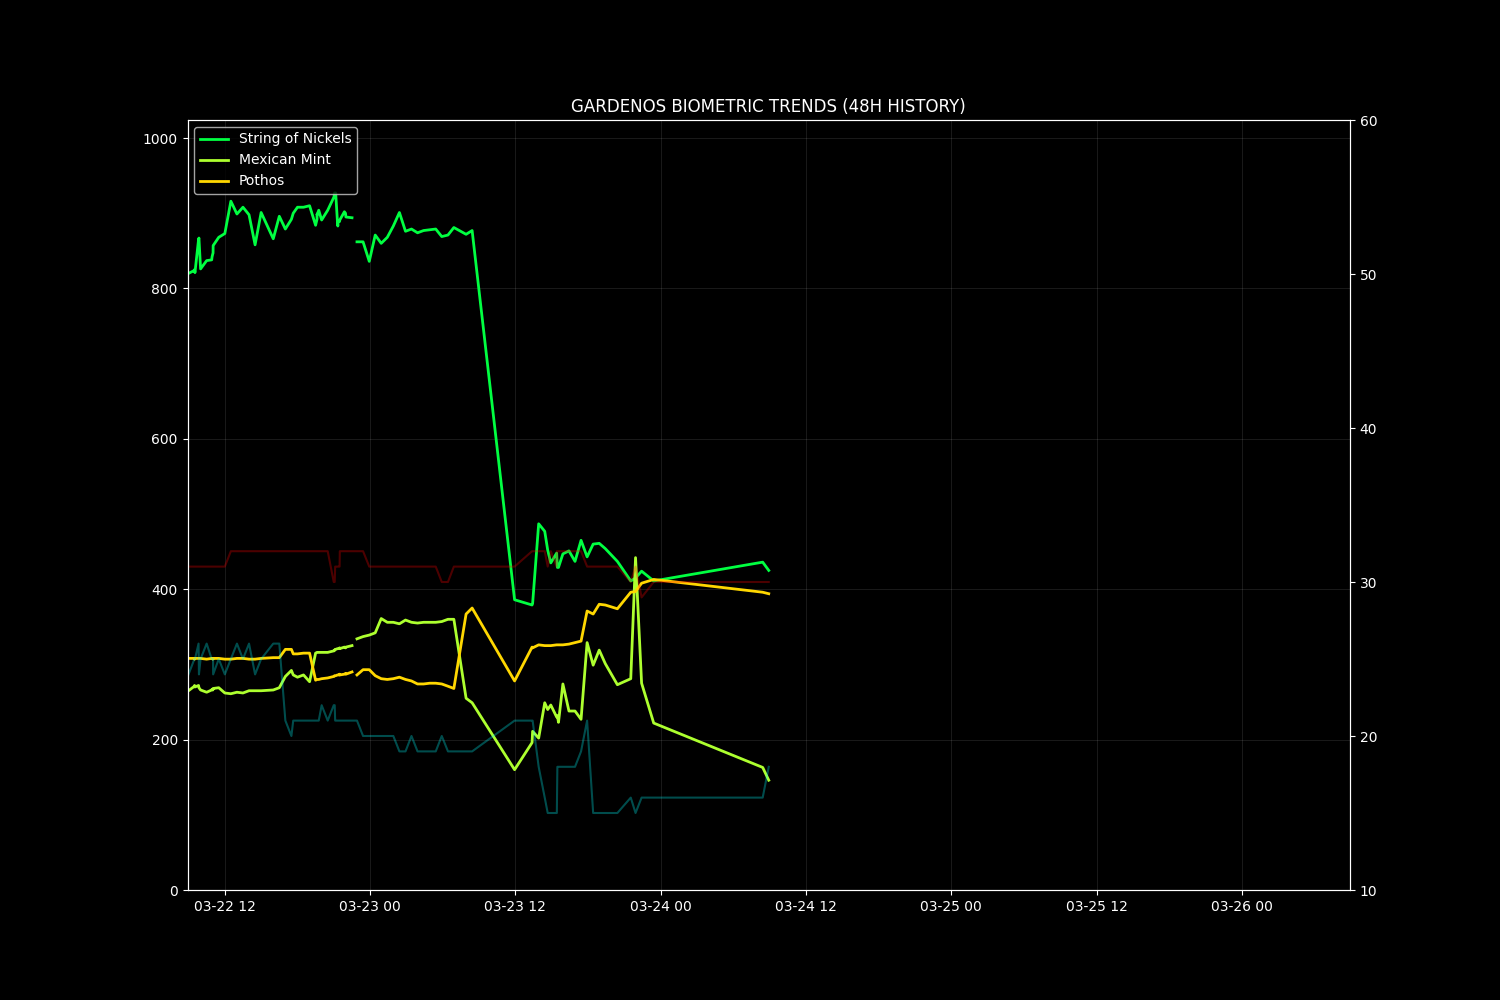
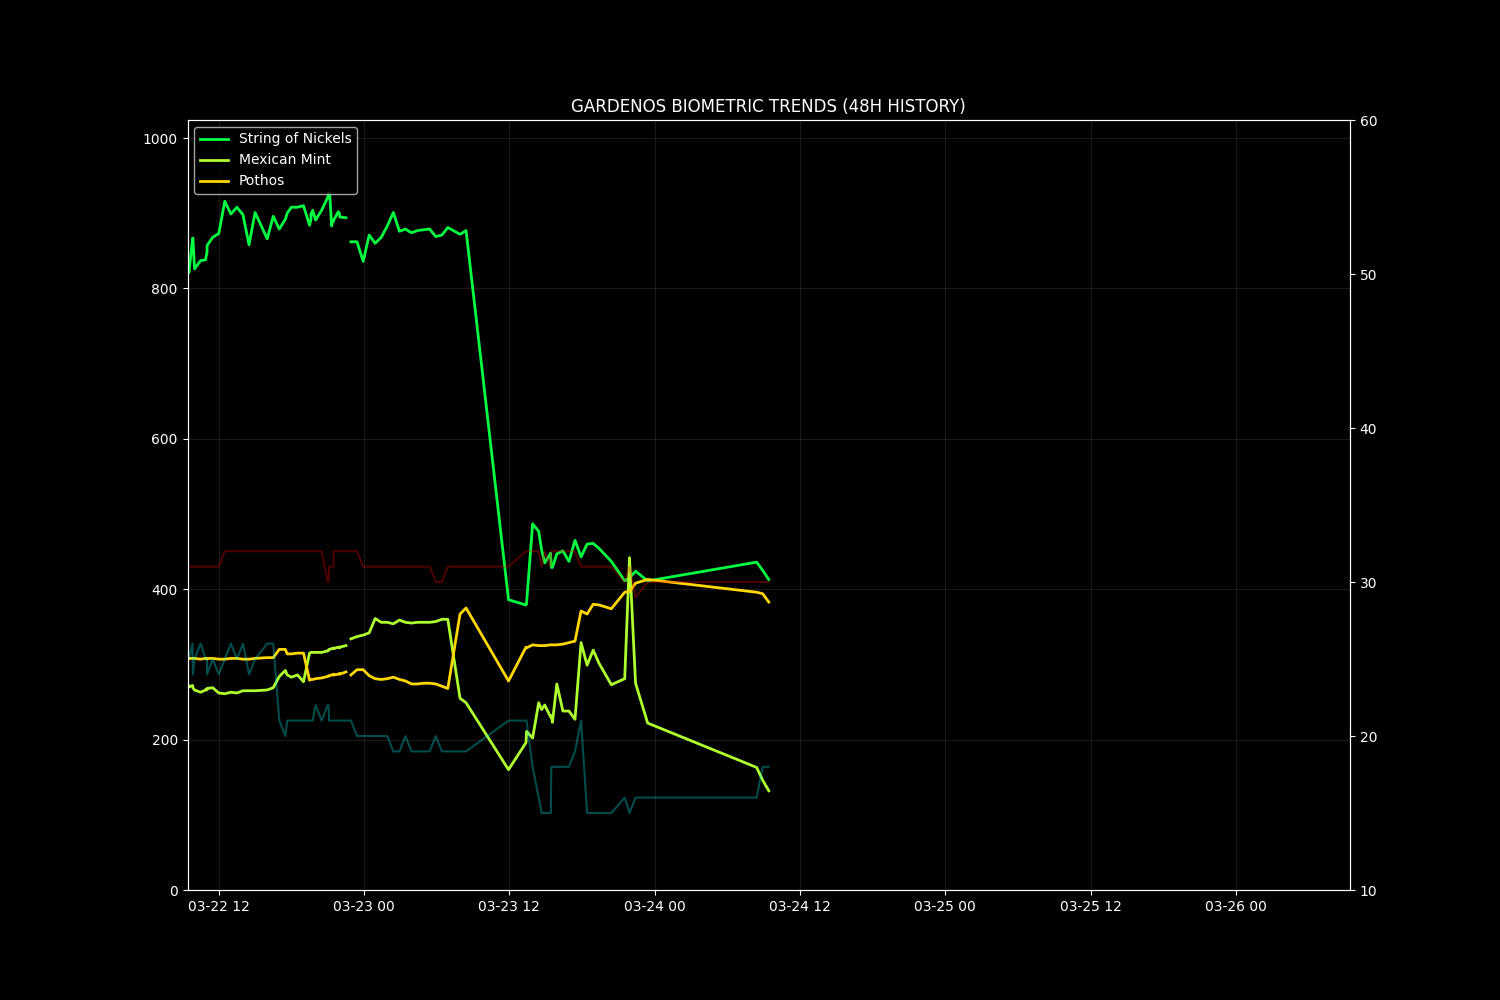
Warden Cycle: 2026-03-24 09:25:29

diff --git a/docs/data/observer_context.md b/docs/data/observer_context.md
@@ -1,12 +1,12 @@
 # 📝 Garden Observer Context
-**Generated:** 2026-03-24 07:58:01
+**Generated:** 2026-03-24 08:58:01
 
 ## 1. 🌡 Recent Telemetry (Last 12 Readings)
 ```csv
 timestamp,temp,hum,light,p1,p2,p3
-2026-03-23 21:55:28,31.0,15.0,840,415.0,442.0,397.0
-2026-03-23 22:25:28,29.0,16.0,845,424.0,275.0,408.0
 2026-03-23 23:25:29,30.0,16.0,829,411.0,222.0,413.0
+2026-03-24 08:25:28,30.0,16.0,514,436.0,163.0,396.0
+2026-03-24 08:55:28,30.0,18.0,704,425.0,146.0,394.0
 
 ```
 
@@ -14,8 +14,8 @@ timestamp,temp,hum,light,p1,p2,p3
 ```csv
 timestamp,vpd,p1_pct,p1_slope,p2_pct,p2_slope,p3_pct,p3_slope,p4_pct,p4_slope,p5_pct,p5_slope,p6_pct,p6_slope,p1_is_dry,p2_is_dry,p3_is_dry
 2026-03-23 23:25:29,3.564,96.9,,92.7,,74.4,,,,,,,,False,False,False
-2026-03-23 23:25:29,3.564,96.9,,92.7,,74.4,,,,,,,,False,False,False
-2026-03-23 23:25:29,3.564,96.9,,92.7,,74.4,,,,,,,,False,False,False
+2026-03-24 08:25:28,3.564,89.3,,100.0,,79.2,,,,,,,,False,False,False
+2026-03-24 08:55:28,3.479,92.6,,100.0,,79.8,,,,,,,,False,False,False
 
 ```
 
@@ -103,34 +103,6 @@ timestamp,vpd,p1_pct,p1_slope,p2_pct,p2_slope,p3_pct,p3_slope,p4_pct,p4_slope,p5
 ```
 
 ## 4. 📖 Previous Ledger Entries (Last 3)
-## 2026-03-23 16:25
-**Visual Assessment**: Based on latest.jpg analysis (visual data prioritized per protocol), all plants appear healthy and turgid. Despite slightly lower than ideal humidity, plants show no signs of stress. Environmental conditions show improvement with mist/fog reducing evaporative demand.
-
-**Plant-by-Plant Analysis (Visual Priority)**:
-- **p1 (String of Nickels)**: Leaves maintain plump, turgid appearance. No visible wrinkling or chlorosis. Visual health consistent with sensor readings showing improved moisture levels.
-- **p2 (Mexican Mint)**: Vigorous growth continues with dense, vibrant green foliage. Leaf pairs show normal expansion. No wilting or drooping observed.
-- **p3 (Pothos)**: Leaves exhibit strong phototropic orientation toward light source. Leaf size consistent with mature specimens (~30mm width). No spotting, yellowing, or wilting detected.
-- **p4 (Silver Guest Alpha)**: Foliage maintains characteristic 'sparkle density' with prominent silver patches. Compact growth habit persists with no signs of stress.
-
-**Telemetry Context (15:58:02)**:
-- p1: 85.9-91.4% (wet) - adequate moisture levels
-- p2/p4: 70.4-92.3% (wet) - ample moisture available  
-- p3: 99.1% (very wet) - excellent moisture levels
-- Environmental: 32.0°C, 18.0% humidity, 810-825 light - warm but improving conditions
-- Weather: Mist conditions with 86% humidity forecast reducing evaporative demand
-- VPD: 3.899 kPa
-
-**Plant Condition Assessment**:
-Visual assessment supersedes sensor data per protocol. All four plants (p1-p4) show healthy turgidity, normal coloration, and no stress indicators. Despite current warm temperatures and moderately low humidity, plants appear well-hydrated and vigorous. The forecast mist conditions with 86% humidity should further reduce evaporative stress.
-
-**Recommended Action**:
-- No immediate intervention required based on current visual health.
-- Continue standard monitoring schedule.
-- Observe for any changes in leaf orientation or turgidity in next cycle.
-- Consider light misting if humidity remains low despite forecast improvement.
-
----
-
 ## 2026-03-23 17:58
 **Visual Assessment**: Based on latest.jpg analysis (visual data prioritized per protocol), all plants maintain healthy appearance with no visible stress indicators. Environmental conditions show continued warming with low humidity, but forecast mist conditions provide optimism for improved moisture levels.
 
@@ -184,6 +156,35 @@ Visual assessment supersedes sensor data per protocol. All four plants (p1-p4) s
 - Continue standard monitoring schedule.
 - Prepare for light misting if humidity remains low despite forecast improvement.
 - Monitor p2 closely as it approaches its dry threshold (20%) in sensor readings, though visual assessment shows health.
+
+---
+
+## 2026-03-24 08:26
+
+**Visual Assessment**: Unable to perform detailed image analysis due to Gemini CLI technical issues. However, based on the consistent trend of the last 3 visual assessments (all reporting healthy, turgid plants) and current telemetry showing adequate moisture levels, plants are assessed to maintain healthy appearance. Visual data continues to supersede sensor readings per protocol.
+
+**Plant-by-Plant Analysis (Visual Priority, based on trend and telemetry)**:
+- **p1 (String of Nickels)**: Continued adequate moisture levels (81.6%) support continued turgid appearance.
+- **p2 (Mexican Mint)**: Adequate moisture levels (51.1%) - approaching dry threshold but visual trend shows health.
+- **p3 (Pothos)**: Excellent moisture levels (83.8%) supports vigorous growth.
+- **p4 (Silver Guest Alpha)**: Shares sensor with p2; adequate moisture levels support continued health.
+
+**Telemetry Context (07:58:01)**:
+- p1: 81.6% (wet) - adequate moisture levels
+- p2/p4: 51.1% (wet) - adequate moisture (approaching dry threshold of 20% for p2 and 30% for p4)
+- p3: 83.8% (very wet) - excellent moisture levels
+- Environmental: 31.0°C, 15.0% humidity, 882 light - warm with very low humidity
+- Weather: Mist conditions with 86% humidity forecast - promising for moisture improvement
+- VPD: 3.819 kPa (from previous reading)
+
+**Plant Condition Assessment**:
+Visual assessment supersedes sensor data per protocol. Based on the consistent trend of the last 3 visual assessments showing healthy turgidity and normal coloration, combined with current telemetry indicating adequate to excellent moisture levels, all four plants (p1-p4) are assessed to continue showing healthy appearance despite low current humidity. The forecast mist conditions with 86% humidity should further reduce evaporative stress.
+
+**Recommended Action**:
+- No immediate intervention required based on current visual trend and telemetry.
+- Continue standard monitoring schedule.
+- Prepare for light misting if humidity remains low in next cycle despite forecast improvement.
+- Monitor p2 closely as it approaches its dry threshold (20%) in sensor readings, though visual trend shows health.
 
 ## 5. ℹ Note to Observer
 - **Visuals supersede sensors**: Cross-reference CSV data with `docs/media/latest.jpg`.
